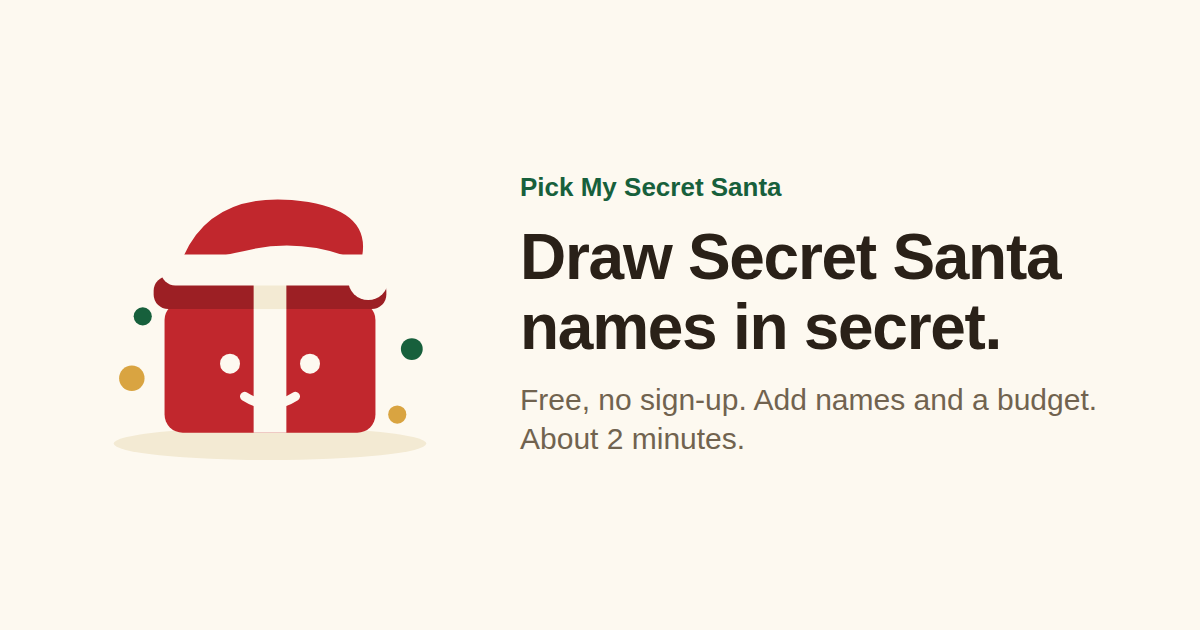
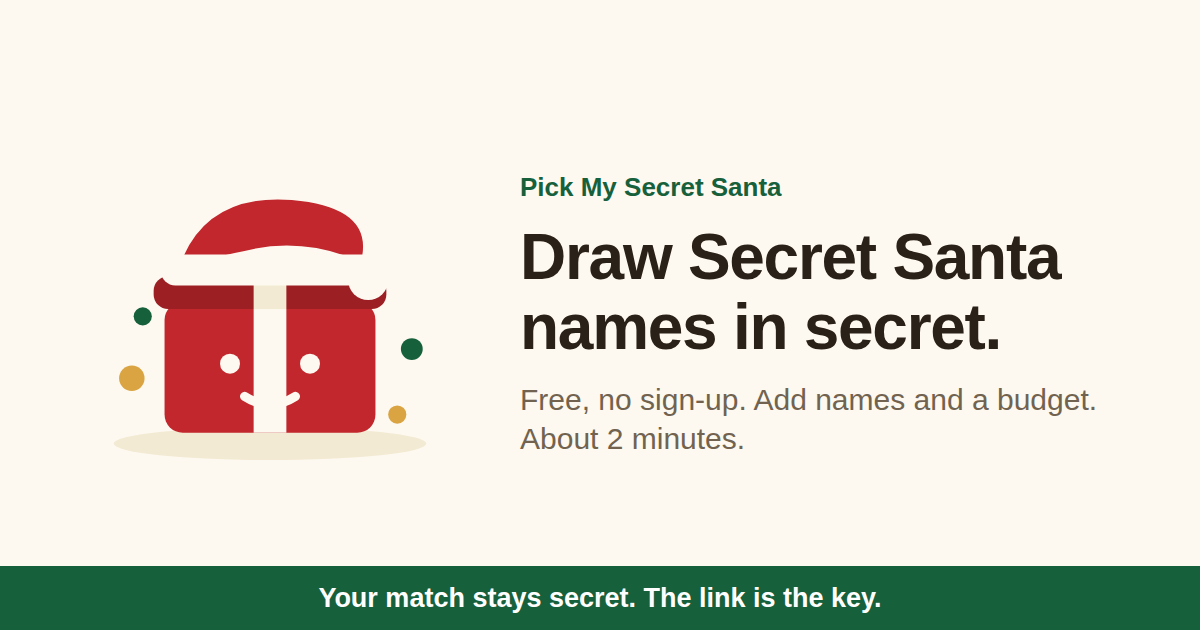
Share-loop amplifiers (santa-loop Nov 7): warm hand-back carries group name + budget band from the reveal page into a prefilled organizer home (own_draw_warm_shown; handback_shown/clicked); group-chat announcement gains the ?via=group seed line (share_arrival group-note, tool entry 'group'; tool_com

Changed region(s): [[0.0, 0.8746, 1.0, 1.0]]

diff --git a/site/og-card.html b/site/og-card.html
@@ -5,12 +5,13 @@
 <title>og card render source — not a site page</title>
 <style>
   *{margin:0;box-sizing:border-box}
-  body{width:1200px;height:630px;background:#fdf9f0;font-family:-apple-system,BlinkMacSystemFont,"Segoe UI",Helvetica,Arial,sans-serif;overflow:hidden}
+  body{position:relative;width:1200px;height:630px;background:#fdf9f0;font-family:-apple-system,BlinkMacSystemFont,"Segoe UI",Helvetica,Arial,sans-serif;overflow:hidden}
   .card{width:1200px;height:630px;display:flex;align-items:center;padding:60px 70px;gap:50px}
   .scene{width:400px;flex:0 0 auto}
   h1{font-size:64px;line-height:1.08;color:#2a2118;letter-spacing:-0.02em}
   p{font-size:30px;color:#71634f;margin-top:18px;line-height:1.3}
   .brand{font-size:26px;font-weight:800;color:#17603c;margin-bottom:20px}
+  .strip{position:absolute;left:0;right:0;bottom:0;height:64px;background:#17603c;color:#fff;font-size:27px;font-weight:800;display:flex;align-items:center;justify-content:center}
 </style>
 </head>
 <body>
@@ -38,5 +39,6 @@
     <p>Free, no sign-up. Add names and a budget. About 2 minutes.</p>
   </div>
 </div>
+<div class="strip">Your match stays secret. The link is the key.</div>
 </body>
 </html>
